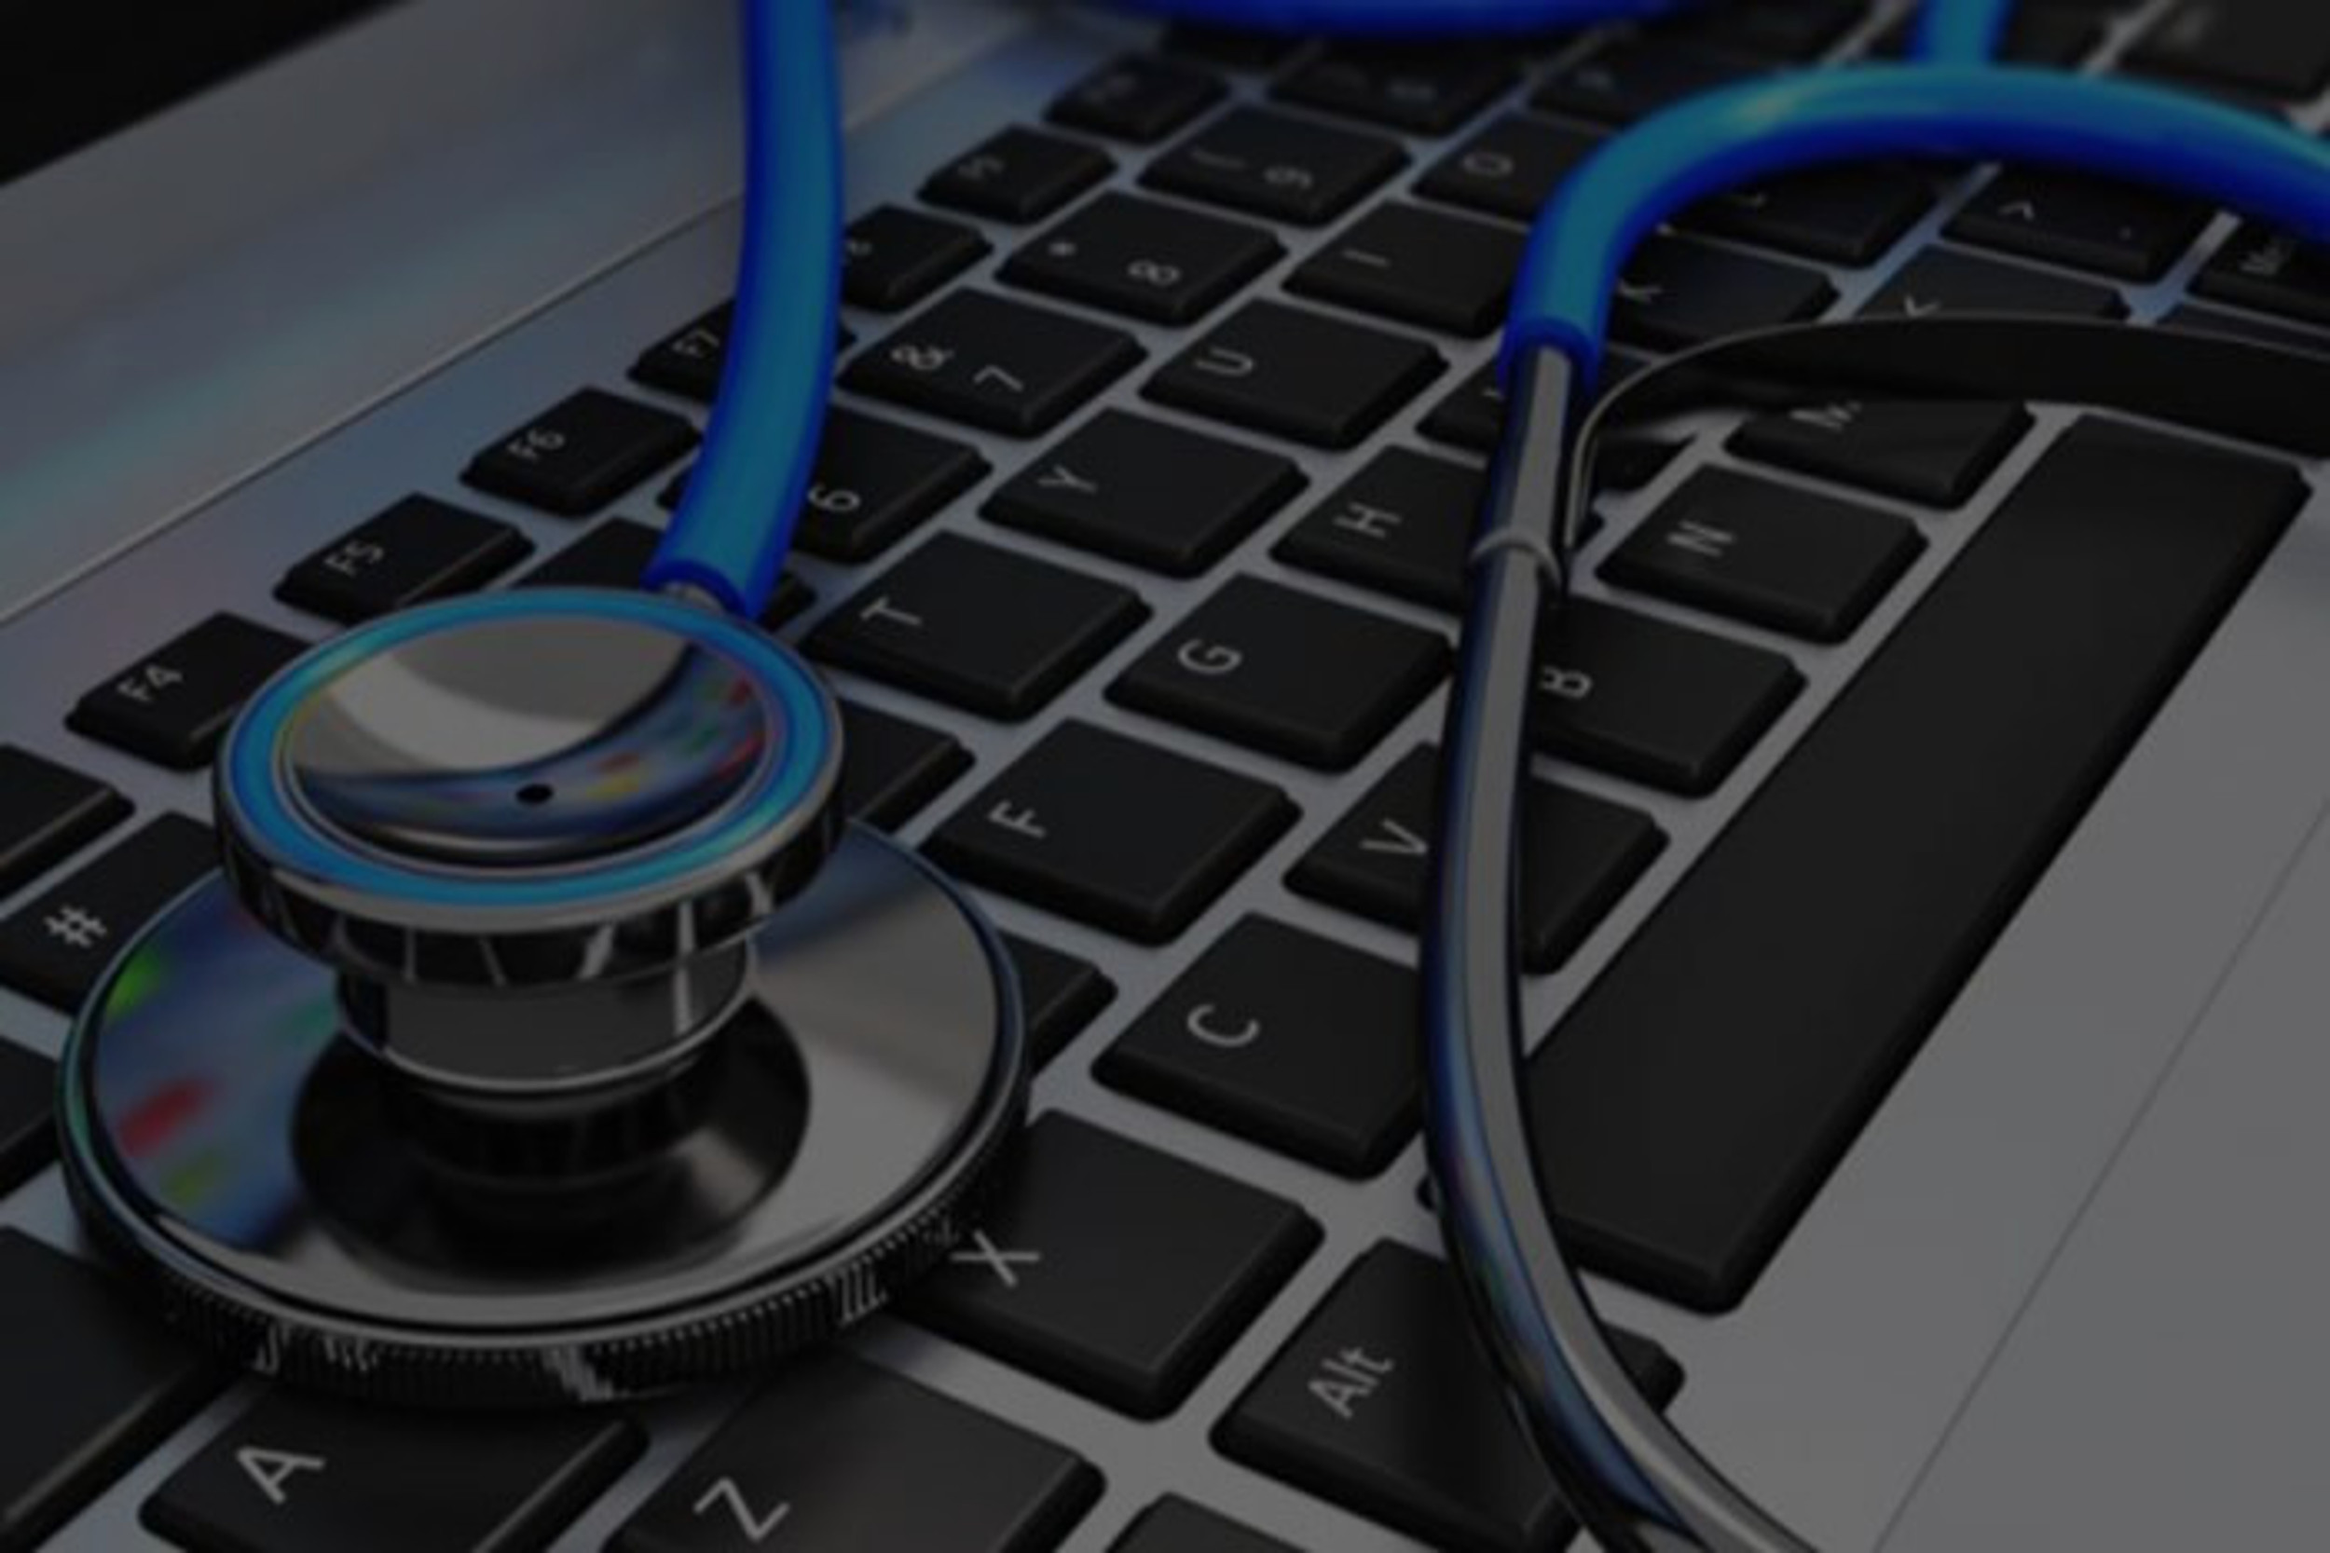
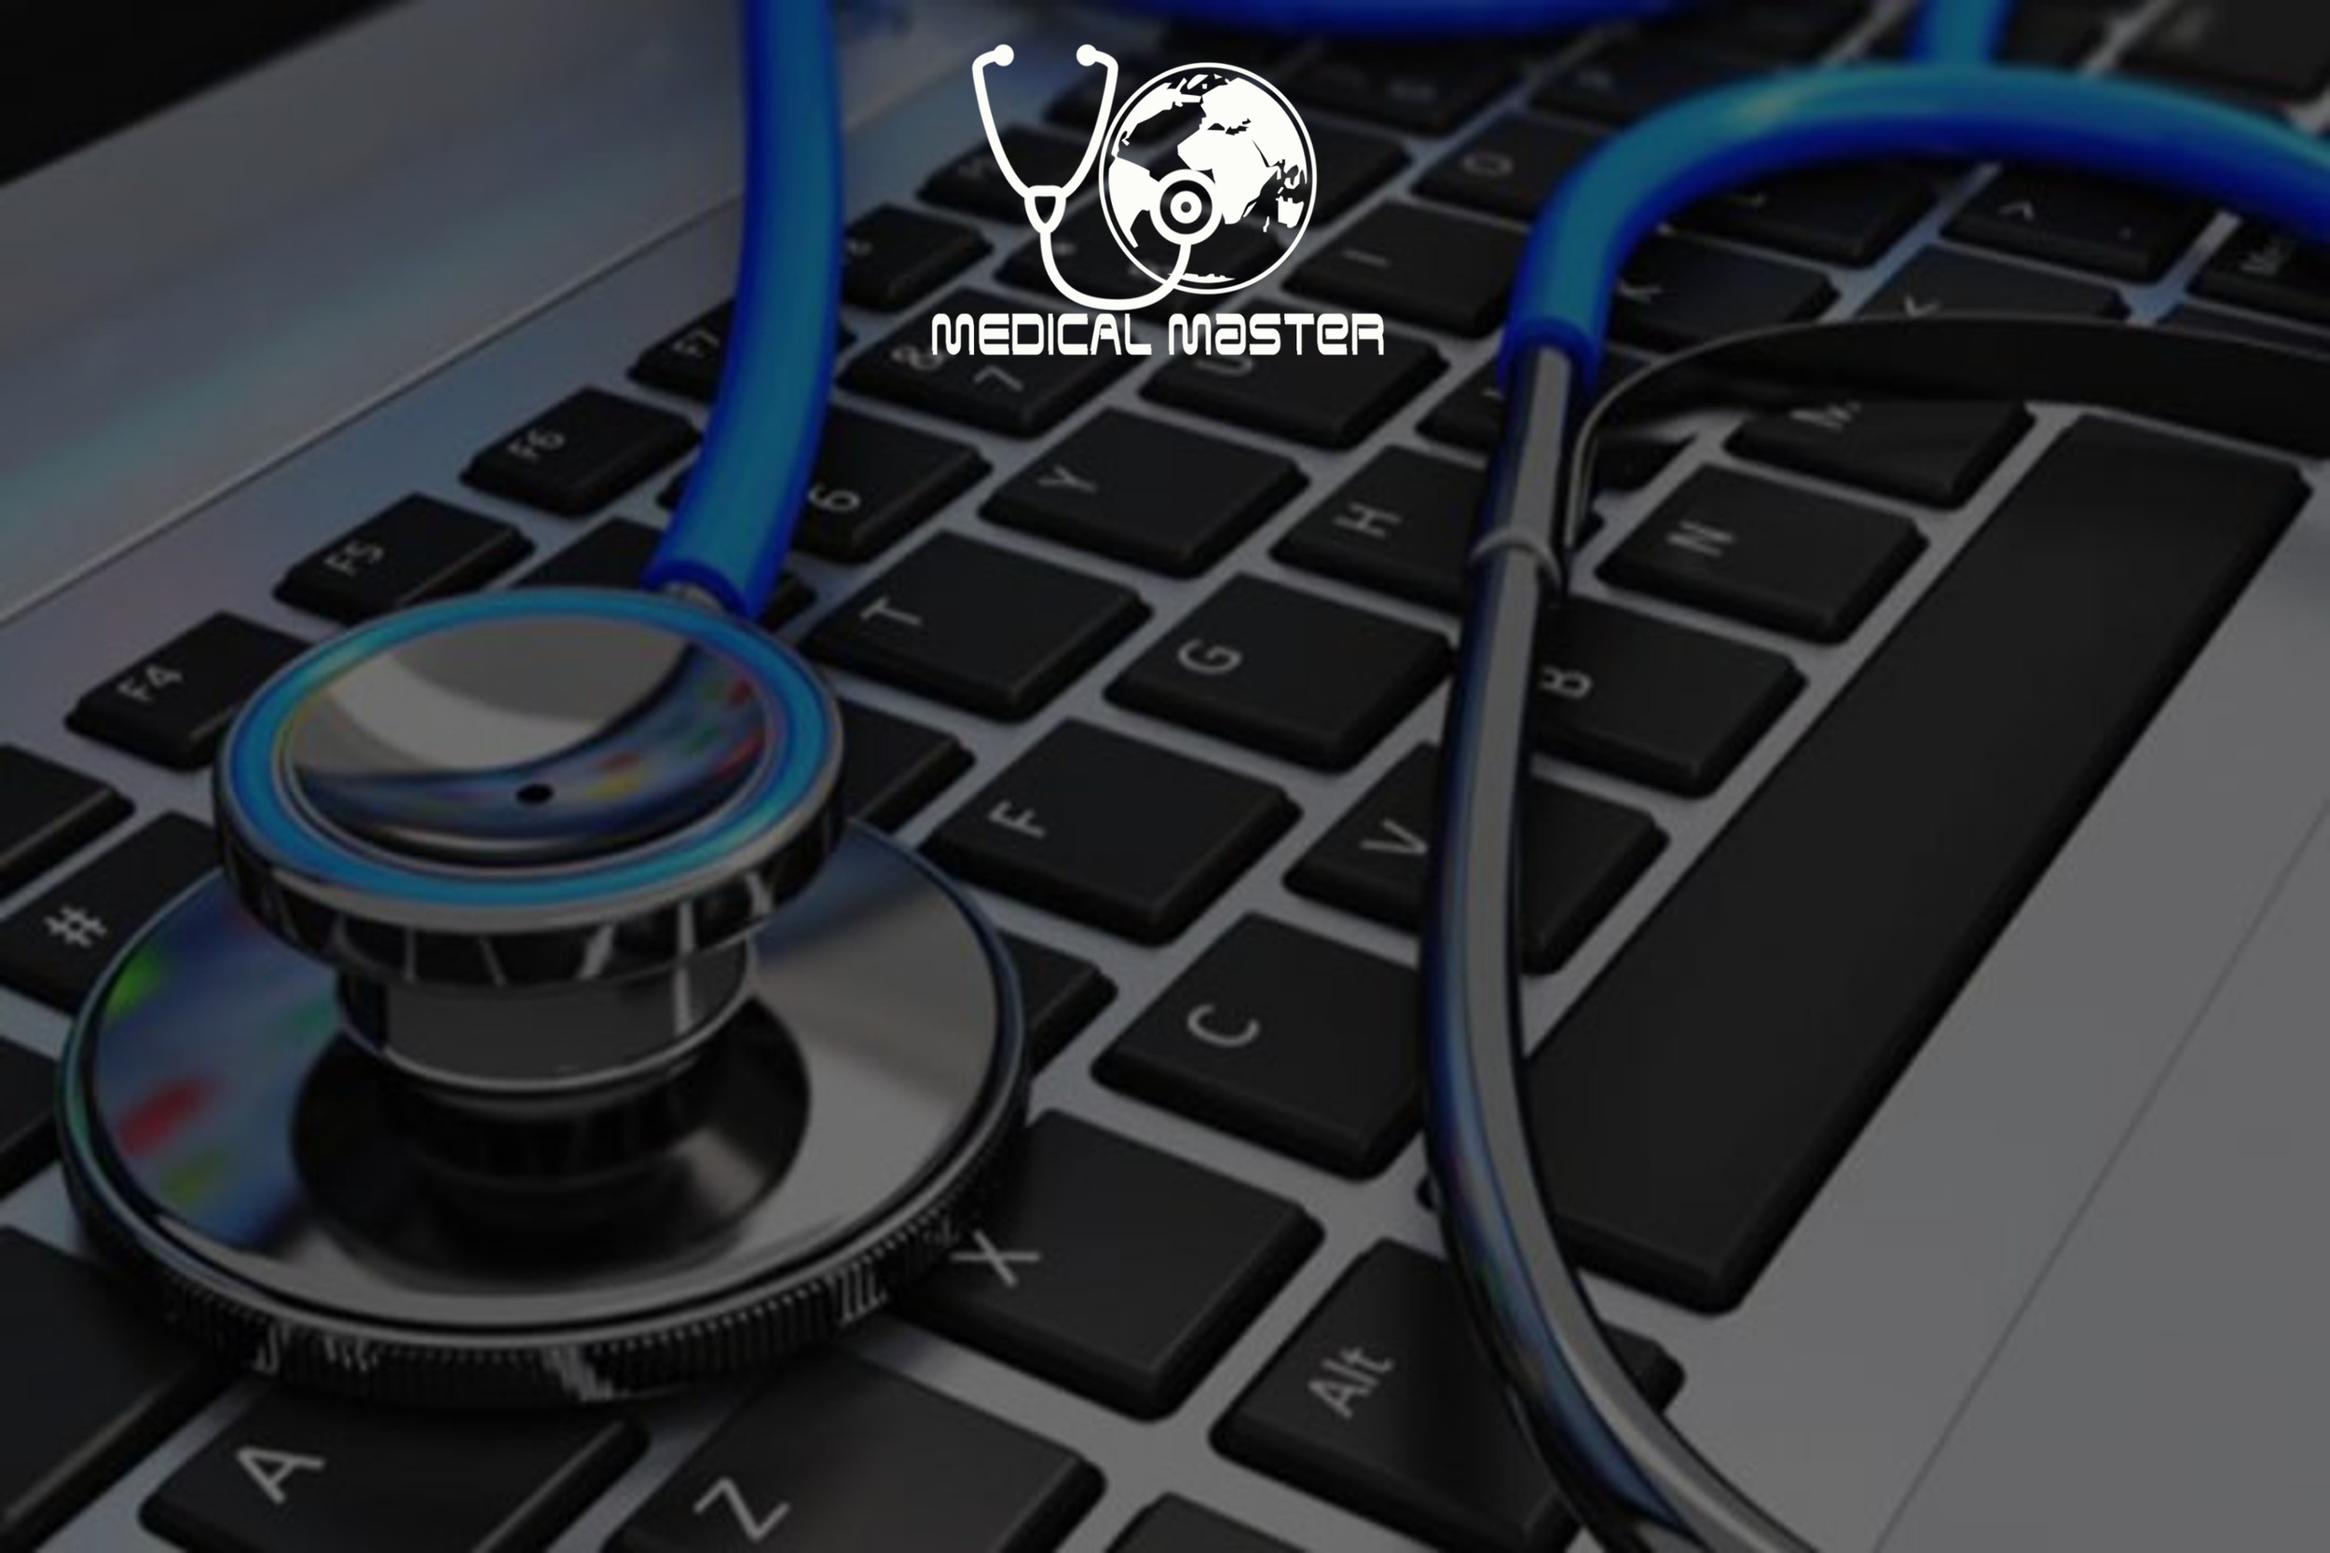
maquetando login

Changed region(s): [[0.4056, 0.0312, 0.5928, 0.2496]]

diff --git a/app/webroot/css/login.css b/app/webroot/css/login.css
@@ -10,14 +10,22 @@ body {
     background-position: center top;
     background-attachment: fixed;
     background-size: cover;
+
+}
+h3{
+  font-family: monospace;
+  font-weight: bold;
+  text-align: center;
 }
 
 }
 .title{
-  font-family: atomo;
   font-size: 36px;
   color: #042c4e;
-  font-style: italic;
+  font-style: normal;
+  font-family: monospace;
+  text-aling:center;
+
 }
 .developers{
   color: #ffffff;
@@ -25,14 +33,36 @@ body {
   font-size: 150%;
 }
 .wrapper {
-  margin-top: 206px;
+  margin-top: 260px;
   margin-bottom: 80px;
 }
-
+.logo{
+  position: absolute;
+    top: 0px;
+    right: 528px;
+    width: 273px;
+    height: 177px;
+    background-image: url(..//../img/medicalmaster.png);
+    background-repeat: no-repeat;
+    background-position: center;
+    background-size: cover;
+    background-color: rgba(255, 255, 255, 0.34);
+    -webkit-box-shadow: 14px 5px 43px 3px rgba(0,0,0,0.83);
+    -moz-box-shadow: 14px 5px 43px 3px rgba(0,0,0,0.83);
+    box-shadow: 14px 5px 43px 3px rgba(0,0,0,0.83);
+    -webkit-border-top-left-radius: 15px;
+    -webkit-border-top-right-radius: 12px;
+    -webkit-border-bottom-right-radius: 12px;
+    -webkit-border-bottom-left-radius: 12px;
+}
 .form-signin {
   max-width: 437px;
   padding: 15px 27px 24px;
   margin: 0 auto;
+  /*background-image:url("..//../img/medicalmaster3.png");*/
+	background-repeat: no-repeat;
+	background-position: center;
+  background-size: cover;
   background-color: rgba(255, 255, 255, 0.73);
       -webkit-box-shadow: 14px 5px 43px 3px rgba(0,0,0,0.83);
       -moz-box-shadow: 14px 5px 43px 3px rgba(0,0,0,0.83);
@@ -79,7 +109,8 @@ body {
 
 }
 .zoom {
-    font-size: 12px;
+    font-size: 15px;
+    font-family: monospace;
     /*width: 300px;*/
 
     /* Firefox */
